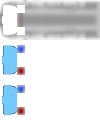
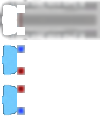
Fixed ambulance texture, added frameLenght property

Changed region(s): [[0.15, 0.875, 0.27, 0.975], [0.15, 0.7, 0.27, 0.775]]

diff --git a/GameDisplay.cpp b/GameDisplay.cpp
@@ -189,7 +189,7 @@ void GameDisplay::drawGame()
     for(unsigned int i = 0; i < game->cars.size(); i++)
     {
         Car& carobj = game->cars[i];
-		int animFrame = game->mainTickCount/4 % carobj.animSize;
+		int animFrame = game->mainTickCount/carobj.frameLength % carobj.animSize;
 
 		// health bars
         rect1.setSize(sf::Vector2f((((float)carobj.health+1) / (float)carobj.maxHealth) * 30.f, 3.f));

diff --git a/Car.cpp b/Car.cpp
@@ -14,6 +14,7 @@ Car::Car(float speed, int line)
     this->health = this->maxHealth - 1;
     this->textureName = "default";
 	this->animSize = 1;
+	this->frameLength = 1;
 }
 
 bool Car::tickDestroy()

diff --git a/CarAmbulance.cpp b/CarAmbulance.cpp
@@ -8,6 +8,7 @@ CarAmbulance::CarAmbulance(float s, int l)
     this->health = 3;
     this->textureName = "ambulance";
 	this->animSize = 2;
+	this->frameLength = 8;
 }
 
 

diff --git a/Car.h b/Car.h
@@ -52,6 +52,7 @@ public:
     float carRelativeToScreen;
     float destroyTick;
 	int animSize;
+	int frameLength;
 
     enum TypeId
     {
